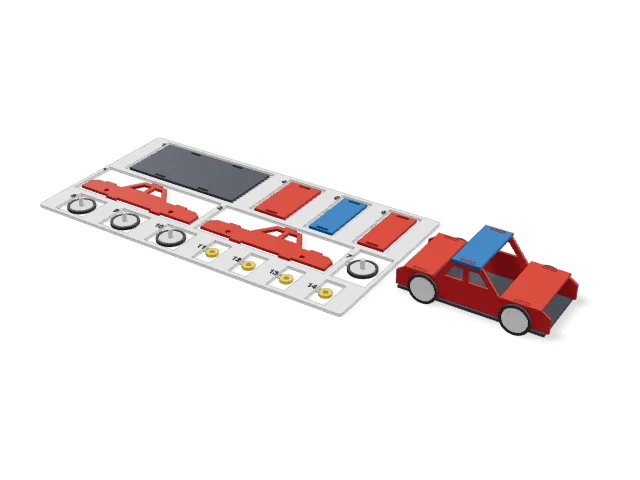
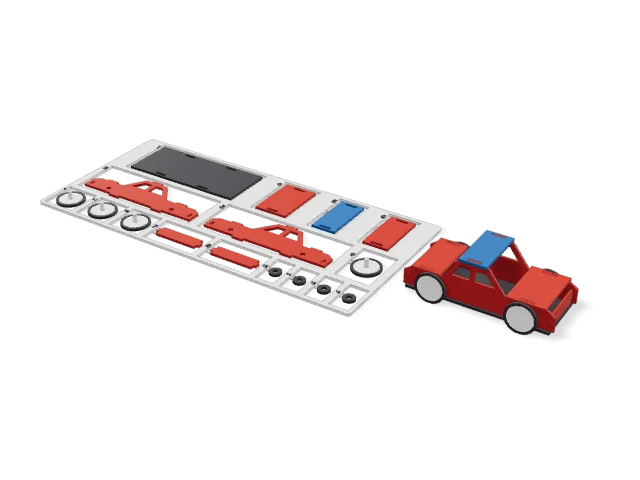
fix: kits carrinho e caminhão: proporções de brinquedo (mais estreito, caminhão mais alto, rodas maiores) e paredes de frente e traseira fechando as pontas. Closes #193

Changed region(s): [[0.0625, 0.2812, 0.9062, 0.7188]]

diff --git a/src/geometry/kit/models/kitCar.ts b/src/geometry/kit/models/kitCar.ts
@@ -1,6 +1,6 @@
 import { poly, rect } from "../joints";
 import type { KitTemplate } from "../types";
-import { buildVehicle, VEHICLE_PALETTE, type Ledge } from "./vehicle";
+import { buildVehicle, VEHICLE_PALETTE, type Ledge, type Wall } from "./vehicle";
 
 /** Carro de montar: laterais com janelas, chassi, capô, teto e porta-malas; rodas que giram no pino, presas por travas. */
 export const KIT_CAR: KitTemplate = {
@@ -9,7 +9,7 @@ export const KIT_CAR: KitTemplate = {
   blurb: "Carro de montar projetado peça por peça: laterais com janelas, chassi, capô, teto e porta-malas encaixados, rodas que giram no eixo.",
   palette: VEHICLE_PALETTE,
   artTargets: [["lateral1", "Lateral direita"], ["lateral2", "Lateral esquerda"], ["capo", "Capô"], ["teto", "Teto"], ["chassi", "Chassi"]],
-  defaults: { length: 90, width: 38, bodyH: 12, cabinH: 14, wheelD: 18, tire: 1.5, press: 0.05 },
+  defaults: { length: 90, width: 32, bodyH: 12, cabinH: 14, wheelD: 19, tire: 1.5, press: 0.05 },
   sections: [
     {
       title: "Proporções",
@@ -49,12 +49,17 @@ export const KIT_CAR: KitTemplate = {
       ledge("teto", "Teto", "cab", x3 + 0.6, x2 - 0.6, Hr),
       ledge("malas", "Porta-malas", "body", xTrunk + 0.6, x4 - 0.6, Hb),
     ];
+    const wallH = 0.7 * Hb, tabH = Math.min(8 * s, 0.4 * wallH);
+    const walls: Wall[] = [
+      { id: "frente", label: "Frente", color: "body", x: xf - 3.2 * s, y0: 0, y1: wallH, tabY: wallH / 2, tabH },
+      { id: "fundo", label: "Traseira", color: "body", x: xr + 3.2 * s, y0: 0, y1: wallH, tabY: wallH / 2, tabH },
+    ];
     return buildVehicle(env, {
       profile, cutouts, length: L, width: Wi, wheel, tire, axles: [-0.3 * L, 0.3 * L],
       floor: { x0: xr + 0.02 * L, x1: xf - 0.02 * L, tabs: [-0.2 * L, 0.2 * L], tabW: 8 * s },
-      ledges, walls: [],
+      ledges, walls,
       steps: [
-        "Encaixe as laterais {lateral1} e {lateral2} nas janelas do chassi {chassi}.",
+        "Encaixe as laterais {lateral1} e {lateral2} nas janelas do chassi {chassi}, e feche as pontas com a frente {frente} e a traseira {fundo}, pelas abas nas janelinhas.",
         "Apoie o capô {capo}, o teto {teto} e o porta-malas {malas} nas bordas das laterais, com as abas passando pelas janelinhas.",
         "Prenda cada roda {roda} pelo pino no furo da lateral (de fora para dentro) e aperte a trava {trava} na ponta do pino, por dentro: a roda tem que girar.",
       ],

diff --git a/src/geometry/kit/models/kitTruck.ts b/src/geometry/kit/models/kitTruck.ts
@@ -9,7 +9,7 @@ export const KIT_TRUCK: KitTemplate = {
   blurb: "Caminhão de montar projetado peça por peça: cabine com janela, carroceria aberta, chassi, capô, teto, traseira e rodas que giram no eixo.",
   palette: VEHICLE_PALETTE,
   artTargets: [["lateral1", "Lateral direita"], ["lateral2", "Lateral esquerda"], ["traseira", "Traseira"], ["teto", "Teto da cabine"], ["chassi", "Chassi"]],
-  defaults: { length: 120, width: 40, cabinH: 28, boxH: 24, cabLen: 32, axlesN: 2, wheelD: 20, tire: 2, press: 0.05 },
+  defaults: { length: 120, width: 34, cabinH: 36, boxH: 28, cabLen: 30, axlesN: 2, wheelD: 23, tire: 2, press: 0.05 },
   sections: [
     {
       title: "Proporções",
@@ -48,7 +48,9 @@ export const KIT_TRUCK: KitTemplate = {
     const ledge = (id: string, label: string, color: string, a: number, b: number, y: number): Ledge => ({ id, label, color, x0: a, x1: b, y, tabs: [(a + b) / 2], tabW: tabW(b - a) });
     const ledges: Ledge[] = [ledge("capo", "Capô", "cab", x1 + 0.6, xHoodEnd - 0.6, Hb), ledge("teto", "Teto da cabine", "cab", x3 + 0.6, x2 - 0.6, Hr)];
     const tabH = (h: number) => Math.min(8 * s, 0.4 * h);
+    const frontH = 0.7 * Hb;
     const walls: Wall[] = [
+      { id: "frente", label: "Frente", color: "cab", x: xf - 3.2 * s, y0: 0, y1: frontH, tabY: frontH / 2, tabH: tabH(frontH / 0.4) },
       { id: "paredeCabine", label: "Parede da cabine", color: "cab", x: wallX, y0: 0, y1: Hr - 4 * s, tabY: 0.5 * (Hr - 4 * s), tabH: tabH(Hr) },
       { id: "traseira", label: "Traseira", color: "body", x: xr + 1.5 * s + (t + fit) / 2 + 1, y0: 0, y1: Hbox - 1.5 * s, tabY: 0.5 * Hbox, tabH: tabH(Hbox) },
     ];
@@ -61,7 +63,7 @@ export const KIT_TRUCK: KitTemplate = {
       ledges, walls,
       steps: [
         "Encaixe as laterais {lateral1} e {lateral2} nas janelas do chassi {chassi}.",
-        "Encaixe a parede da cabine {paredeCabine} e a traseira {traseira} pelas abas nas janelinhas das laterais.",
+        "Encaixe a frente {frente}, a parede da cabine {paredeCabine} e a traseira {traseira} pelas abas nas janelinhas das laterais.",
         "Apoie o capô {capo} e o teto {teto} nas bordas das laterais, com as abas passando pelas janelinhas.",
         "Prenda cada roda {roda} pelo pino no furo da lateral (de fora para dentro) e aperte a trava {trava} na ponta do pino, por dentro: a roda tem que girar.",
       ],

diff --git a/src/geometry/kit/models/vehicles.test.ts b/src/geometry/kit/models/vehicles.test.ts
@@ -63,7 +63,7 @@ describe("kits de veículo: carro e caminhão (#kit)", { timeout: 300_000 }, () 
     scoped((k) => {
       const a = kitInstances(M, k, KIT_CAR, {}).build.parts.find((q) => q.id === "roda")!.layers[0].cs.bounds();
       const b = kitInstances(M, k, KIT_CAR, { wheelD: 26 }).build.parts.find((q) => q.id === "roda")!.layers[0].cs.bounds();
-      expect((b.max[0] - b.min[0]) / (a.max[0] - a.min[0])).toBeCloseTo(26 / 18, 2);
+      expect((b.max[0] - b.min[0]) / (a.max[0] - a.min[0])).toBeCloseTo(26 / 19, 2);
       const la = kitInstances(M, k, KIT_CAR, {}).build.parts.find((q) => q.id === "lateral1")!.layers[0].cs.bounds();
       const lb = kitInstances(M, k, KIT_CAR, { length: 120 }).build.parts.find((q) => q.id === "lateral1")!.layers[0].cs.bounds();
       expect((lb.max[0] - lb.min[0]) / (la.max[0] - la.min[0])).toBeCloseTo(120 / 90, 1);
